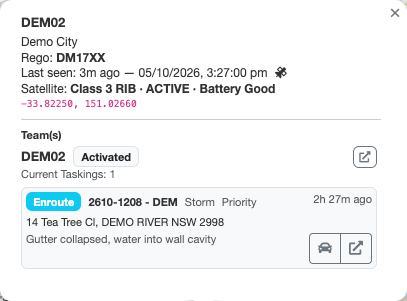
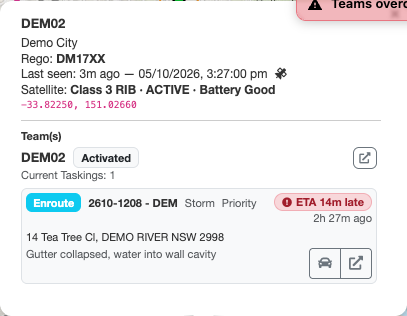
Sync preview docs from NSWSESMembers/Lighthouse@8e58eb2 (master-dev)

diff --git a/preview/guides/lad/tasking.md b/preview/guides/lad/tasking.md
@@ -57,16 +57,82 @@ Incident popups on the Situation Map can also be dragged onto a team in the Team
 
 ## Tasking Status
 
-Each tasking shows its status, in both registers and in the incident's map popup. Click the status to open a dropdown and choose a new one. Some statuses need extra information:
-
-- **Remove Tasking**: only available in the *Tasked* status. Removes the tasking from the team.
-- **En-Route**: requires a time, defaulting to now (tick the override to enter your own). You can set an ETA; the quick ETA buttons add increments, and when the ETA is blank they add to the time set.
-- **Call Off**: requires a reason. You can also call a team off from Spotlight with the [`calloff` command](spotlight.md#call-off-command--calloff).
-- **On-Site**: requires a time, defaulting to now (tick the override to enter your own). You can set an ETC; the quick ETC buttons work the same way as quick ETA.
-- **Off-Site**: requires a time, defaulting to now (tick the override to enter your own).
-- **Complete**: opens Beacon's *Team Completion* dialog for the team in the remote tab.
+Each tasking shows its status, in both registers and in the incident's map popup. Click the status to open the status menu.
 
 ![Tasking status dropdown](images/tasking-status.png)
+
+The menu is built to move the tasking forward, towards completion:
+
+- The **progress line** at the top shows where the tasking is (Tasked, En route, On site, Off site, Complete) and the time of each step so far.
+- **Next step** is the big blue button for the usual next status, e.g. *On site* for a team that's En route. From On site there are two, side by side: **Off site** and **Complete**.
+- **Skip ahead** lists the later statuses, with the steps each one skips, e.g. *Off site · skips On site*. **Complete** opens Beacon's *Team Completion* dialog for the team in the [remote tab](getting-started.md#remote-beacon-tab).
+- **Stop this tasking** has **Call off** (Tasked or En route; requires a reason) and **Remove tasking** (Tasked only). Call off is offered exactly when Beacon allows it: not once a team has arrived on site, unless its arrival was corrected back to En route, and never once it has been Off site. Those teams have to be completed in Beacon. You can also call a team off from Spotlight with the [`calloff` command](spotlight.md#call-off-command--calloff).
+
+![Status menu for a Tasked team](images/tasking-status-tasked.png)
+
+After choosing a status, the menu shows what's changing, e.g. *Tasked → En route*, and you confirm it with the button at the bottom, e.g. **Set En route**. Some statuses need extra information:
+
+- **En route**, **On site** and **Off site** are logged at the current time. To log a different time, click **Change** beside it; **Use now** goes back to the current time.
+- **En route** can have an ETA, and **On site** an ETC. Each click of a quick button (+5 to +60) adds to the ETA/ETC picked so far, starting from the status time. The label above the buttons shows how far the ETA/ETC is after the status time, e.g. *From now (10:00): +45m*; it only changes its *From* time if you change the status time. You can also type an exact date and time; times are 24-hour, e.g. `1045` or `10:45`.
+- **Call off** requires a reason.
+
+![Setting a team En route](images/tasking-status-enroute.png)
+
+### Changing the ETA or ETC
+
+While a team is En route or On site, the **Now** box in the status menu shows its current ETA or ETC. Click **Change** (or **Set ETA** / **Set ETC** if there isn't one) to give a new time without changing the status:
+
+- The current and new times show side by side, with how far away each is.
+- Each click of a quick button (+5 to +60) adds to the time picked so far, starting from the current ETA or ETC, or from now if that has already passed. The label above the buttons shows how far the new time is after that, e.g. *From 10:35: +20m*. **Reset** goes back to the current time, or type an exact time instead (24-hour).
+- Click **Save ETA** / **Save ETC**. The time the team went En route or On site stays the same.
+
+![Status menu for an On site team](images/tasking-status-onsite.png)
+
+![Changing an ETC](images/tasking-status-change-etc.png)
+
+### Correcting an Earlier Status
+
+Earlier statuses aren't in the normal menu, so they can't be chosen by accident. To fix a mistake, e.g. a team marked On site that's still on the way:
+
+1. Click **Correct an earlier status…** at the bottom of the menu. It only shows when there's an earlier status to go back to: Off site can go back to On site or En route, and On site can go back to En route.
+2. Choose the status. Each option shows which later status times Beacon will clear. They stay in the tasking's history in Beacon.
+3. Check the time and ETA or ETC. They start at the values the status had before; click **Use now** to log it at the current time instead.
+4. Tick the box to confirm, then click **Change to …**.
+
+Correcting a team back from On site to En route makes **Call off** available again. Correcting back from Off site doesn't: the confirmation warns that Beacon still needs the team completed.
+
+The change is recorded in Beacon with the note *Status corrected from … to … (Lighthouse)*. Complete, Called off and Untasked can't be undone from LAD.
+
+![Correcting On site back to En route](images/tasking-status-correct.png)
+
+## Arrival and Completion Times
+
+When a team is set to *En-Route* with an ETA, or *On-Site* with an ETC, LAD counts down to that time:
+
+- **ETA** (estimated time of arrival) shows while the team is *Enroute*.
+- **ETC** (estimated time of completion) shows while the team is *Onsite*.
+
+Teams in any other status, or without an ETA or ETC, don't show one. The times come from Beacon, so an ETA set in Beacon, or by another LAD user, shows too. The countdown updates every 30 seconds, and its colour shows how the team is tracking:
+
+| Colour | Meaning |
+| --- | --- |
+| Blue | On track, e.g. *ETA 9m* |
+| Amber | Due within 5 minutes |
+| Red | Overdue, e.g. *ETA 14m late* |
+
+In the Team and Incident Registers, the countdown is shortened to fit: overdue times show as *ETA +14m*, and times over an hour show in whole hours, e.g. *ETA +5h* or *ETC 2h*. Hover over a countdown to see the exact clock time. It shows in:
+
+- **Team Register**: under the task count, the team's soonest ETA. A team with no ETA shows its soonest ETC instead. If the team has several taskings, hover over the countdown to see which incident it's for, or expand the team to see them all.
+
+  ![Team Register showing ETA and ETC countdowns](images/eta-team-rows.png)
+- **Incident Register**: under the status, the soonest ETA of the teams tasked to the incident, or else the soonest ETC.
+
+  ![Incident Register showing ETA and ETC countdowns](images/eta-incident-rows.png)
+- **Expanded teams and incidents**, and the **incident map popup**: the clock time and countdown for each tasking, e.g. *ETC 10:35 · 35m*.
+- **Asset map popup**: beside each of the team's taskings.
+- **Incident hover tooltip** on the map: one badge per team, e.g. *DEM04 · ETA 9m*.
+
+A team that is 5 minutes or more past its ETA or ETC is also listed in the *Teams overdue on ETA/ETC* [alert](interface.md#alerts).
 
 You can also change a tasking's status while logging a radio message: click the tasking's **Radio Log** button and pick the new status at the bottom of the dialog. See [Changing the Team's Status](logs-and-messages.md#changing-the-teams-status).
 

diff --git a/preview/whats-new/index.md b/preview/whats-new/index.md
@@ -18,6 +18,18 @@ section of the LAD guide with a full /preview/guides/lad/... URL.
 The home page shows the first three `##` entries, so keep the title short.
 -->
 
+## LAD arrival times and a clearer status menu
+
+*24 October 2026*
+
+- **See when teams will arrive and finish.** When a team is En-Route with an ETA, or On-Site with an ETC, LAD counts down to it in the Team Register, the Incident Register, expanded teams and incidents, the map popups and the incident hover tooltip. Blue is on track, amber is due within 5 minutes and red is overdue. Hover over a countdown to see the clock time. See [Arrival and Completion Times](/preview/guides/lad/tasking.html#arrival-and-completion-times).
+- **New alert: Teams overdue on ETA/ETC.** Lists teams that are 5 minutes or more past their ETA or ETC. Click a team to jump to it. See [Alerts](/preview/guides/lad/interface.html#alerts).
+- A team's ETA and ETC now update in LAD when they're changed in Beacon. Before, LAD kept showing the time from when the tasking first loaded.
+- **A clearer status menu.** A tasking's status menu now shows its progress, leads with the next step, and lists skip-aheads (including Complete) and Call off / Remove tasking separately. See [Tasking Status](/preview/guides/lad/tasking.html#tasking-status).
+- **Change a team's ETA or ETC without changing its status.** Click **Change** next to the ETA or ETC in the status menu, add time with the +5 to +60 buttons (each click adds on) or type a time, and save. The team's En route or On site time stays the same. See [Changing the ETA or ETC](/preview/guides/lad/tasking.html#changing-the-eta-or-etc).
+- **Correct an earlier status on purpose.** Setting a tasking back, e.g. On site to En route, is now under **Correct an earlier status…**, shows which status times Beacon will clear, and needs a tick to confirm. See [Correcting an Earlier Status](/preview/guides/lad/tasking.html#correcting-an-earlier-status).
+- **Call off is only offered when Beacon will accept it.** LAD now uses the same rule as Beacon's own screens, so it no longer offers Call off for a team that has been on site (unless corrected back to En route) or Off site. If Beacon still refuses a status change, call off or remove, LAD now shows Beacon's reason instead of failing silently.
+
 ## LAD overlay loading status
 
 *24 October 2026*

diff --git a/preview/guides/lad/interface.md b/preview/guides/lad/interface.md
@@ -90,6 +90,10 @@ Alerts display in the top right corner of LAD under certain conditions:
 
   ![Incidents missing geolocation alert](images/alert-missing-geolocation-bar.png)
 
+- **Teams overdue on ETA/ETC**: teams 5 minutes or more past their ETA (while *Enroute*) or ETC (while *Onsite*). Click a team to jump to it in the Team Register. See [Arrival and Completion Times](tasking.md#arrival-and-completion-times).
+
+  ![Teams overdue on ETA/ETC alert](images/alert-overdue-eta-bar.png)
+
 ### Managing Alerts
 
 Minimise an alert by clicking the cross on its right. Minimised alerts show as small icons and can be re-opened at any time. Minimising does not dismiss the underlying alerts. An alert automatically re-appears if another incident meets its condition, e.g. a new unacknowledged ICEMS message.

diff --git a/preview/guides/lad/incident-register.md b/preview/guides/lad/incident-register.md
@@ -23,6 +23,7 @@ The Incident Register is in the bottom left of LAD. It lists all filtered incide
 - Situation on scene, up to three lines
 - Status
   - *Active* and *Tasked* incidents also show the number of taskings. This includes completed, called off and untasked teams, unless **Count active taskings only** is on under [Appearance](configuration.md#appearance).
+  - If a team is on the way or on scene, its [ETA or ETC](tasking.md#arrival-and-completion-times) shows underneath.
   - Click the status to [change it](#changing-incident-status).
 - Address
   - For geocoded incidents, click the address to focus the Situation Map on the incident.

diff --git a/preview/guides/lad/team-register.md b/preview/guides/lad/team-register.md
@@ -10,7 +10,7 @@ The Team Register is in the top left of LAD. It lists all filtered teams. Each r
 - Callsign
 - Status
 - HQ (assigned HQ)
-- Task count: current active taskings (Tasked, Enroute, Onsite and Offsite)
+- Task count: current active taskings (Tasked, Enroute, Onsite and Offsite), with the team's soonest [ETA or ETC](tasking.md#arrival-and-completion-times) underneath
 - Team leader
 
 Sort by Callsign, Status, HQ or Task Count by clicking the column heading; click again to swap between ascending and descending.
